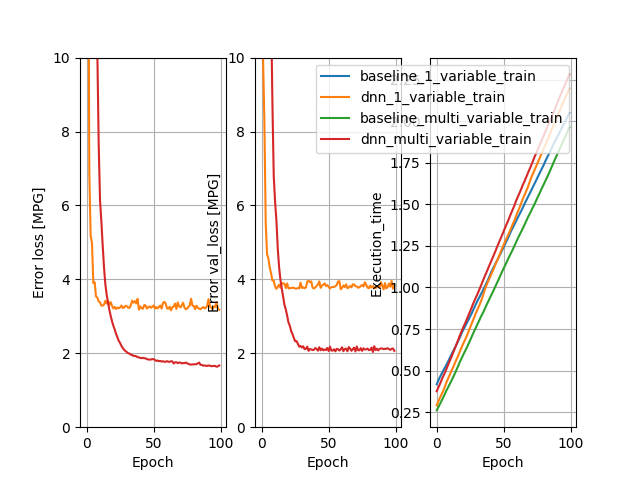
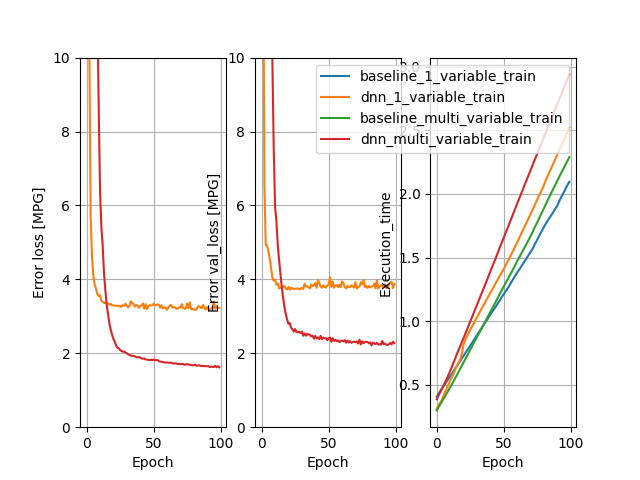
finishing

diff --git a/app/src/main.py b/app/src/main.py
@@ -7,15 +7,21 @@ import os
 
 if __name__ == "__main__":
     logs = {}
+
+    # Getting database env variables
     database = os.getenv('database', '')
     user = os.getenv('user', '')
     password = os.getenv('password', '')
     host = os.getenv('host', 'localhost')
+
+    # Initialize database connection
     Database.initialise(database=database, user=user, password=password, host=host)
     # Database.initialise(database='fuel_consumption', user='baya', password='123456789', host='localhost')
+
+    # Load csv into postgresql
     raw_dataset = load_df_to_postgres()
 
-    # 1 variable
+    # 1 variable model
     columns_to_use = ['Horsepower']
     label_columns = ['MPG']
 
@@ -23,7 +29,7 @@ if __name__ == "__main__":
     verbose = 0
     validation_split = 0.2
     num_classes = len(label_columns)
-    learning_rate = 0.01
+    learning_rate = 0.001
 
     orchestrator = Orchestrator(epochs=epochs, verbose=verbose, validation_split=validation_split,
                                 num_classes=num_classes, learning_rate=learning_rate)
@@ -32,7 +38,7 @@ if __name__ == "__main__":
     # multi variable
     columns_to_use = ['Cylinders', 'Displacement', 'Horsepower', 'Weight', 'Acceleration', 'Model Year', 'Origin']
     label_columns = ['MPG']
-    orchestrator.learning_rate = 0.001
+
     orchestrator.start('multi_variable', raw_dataset, columns_to_use, label_columns)
 
     # Evaluate and compare
@@ -47,12 +53,7 @@ if __name__ == "__main__":
     print(result)
 
     # if I want to use one of the models, all I need to do is this
+    print('_____________________________________________________________________')
+    print('using the retrieved model')
+    print(result[0])
     orchestrator.evaluate( raw_dataset, columns_to_use, label_columns, result[0])
-
-    a = 1
-
-
-
-
-
-

diff --git a/app/src/pipeline_orchestrator/orchestrator.py b/app/src/pipeline_orchestrator/orchestrator.py
@@ -35,6 +35,7 @@ class Orchestrator():
         self.verbose = verbose
         self.validation_split = validation_split
         self.num_classes = num_classes
+        self.learning_rate_baseline = 0.1
         self.learning_rate = learning_rate
         self.logs = {}
 
@@ -47,7 +48,7 @@ class Orchestrator():
         # Baseline model
         baseline = BaselineModel(normalization_layer, epochs=self.epochs, verbose=self.verbose,
                                  validation_split=self.validation_split, num_classes=self.num_classes,
-                                 learning_rate=self.learning_rate)
+                                 learning_rate=self.learning_rate_baseline)
         baseline_train, saved_model_name = baseline.fit(X, y)
         baseline_evaluate = baseline.evaluate(X_test, y_test)
 

diff --git a/app/src/load_csv.py b/app/src/load_csv.py
@@ -3,16 +3,9 @@ from database.auto_mg import create_from_file
 
 
 def load_csv_to_df():
-    '''
+
     # Load csv to data
     url = 'http://archive.ics.uci.edu/ml/machine-learning-databases/auto-mpg/auto-mpg.data'
-    column_names = ['MPG', 'Cylinders', 'Displacement', 'Horsepower', 'Weight',
-                    'Acceleration', 'Model Year', 'Origin']
-
-    raw_dataset = pd.read_csv(url, names=column_names,
-                              na_values='?', comment='\t', header=None,
-                              sep=' ', skipinitialspace=True)
-    '''
     # Load data from mirror
     url = 'auto-mpg.data-original.txt'
     column_names = ['MPG', 'Cylinders', 'Displacement', 'Horsepower', 'Weight',

diff --git a/app/src/database/model_metadata.py b/app/src/database/model_metadata.py
@@ -30,7 +30,8 @@ def fetch_model_with_accuracy_threshold(accuracy_threshold):
         threshold to be considered
     """
     with CursorFromConnectionPool() as cursor:
-        sql_str = """SELECT model_name FROM model_metadata WHERE mae_test < ({}) AND created_at >= current_date - interval '7 days'""".format(accuracy_threshold)
+        sql_str = """SELECT model_name FROM model_metadata WHERE mae_test < ({}) AND 
+        created_at >= current_date - interval '7 days' ORDER BY mae_test""".format(accuracy_threshold)
         cursor.execute(sql_str)
         return [r[0] for r in cursor.fetchall()]
 

diff --git a/app/src/database/auto_mg.py b/app/src/database/auto_mg.py
@@ -1,5 +1,6 @@
 from io import StringIO
 from database.database import CursorFromConnectionPool
+import psycopg2
 
 
 def create_from_file(df):
@@ -19,4 +20,7 @@ def create_from_file(df):
     df.to_csv(buffer, index_label='id', header=False)
     buffer.seek(0)
     with CursorFromConnectionPool() as cursor:
-        cursor.copy_from(buffer, 'auto_mg', sep=',')
+        try:
+            cursor.copy_from(buffer, 'auto_mg', sep=',')
+        except psycopg2.errors.UniqueViolation as e:
+            print('Table already exist')
